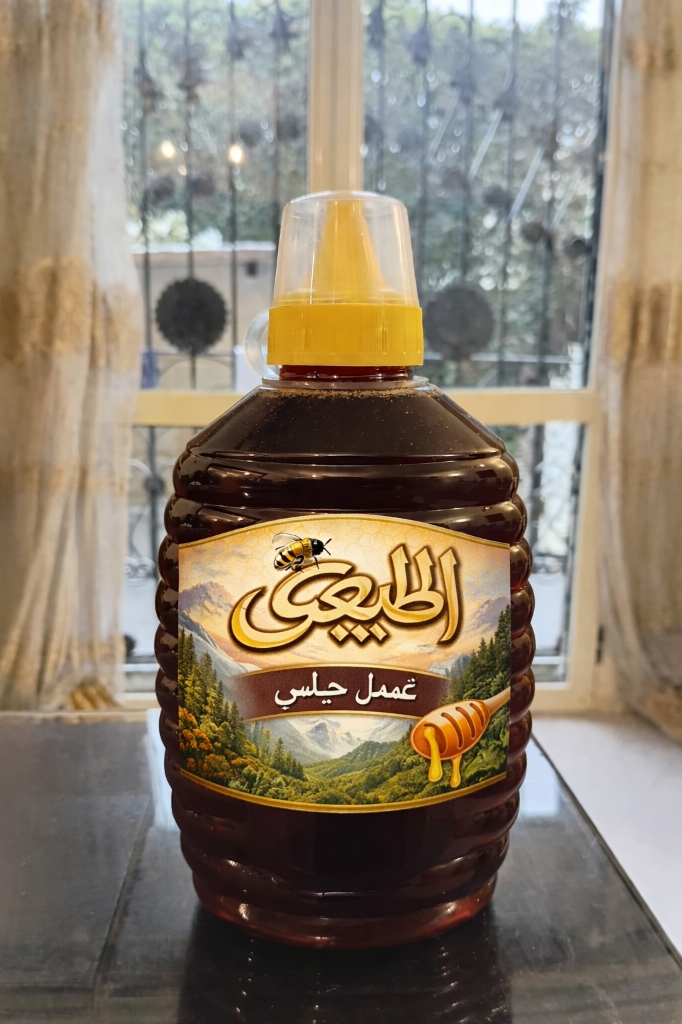
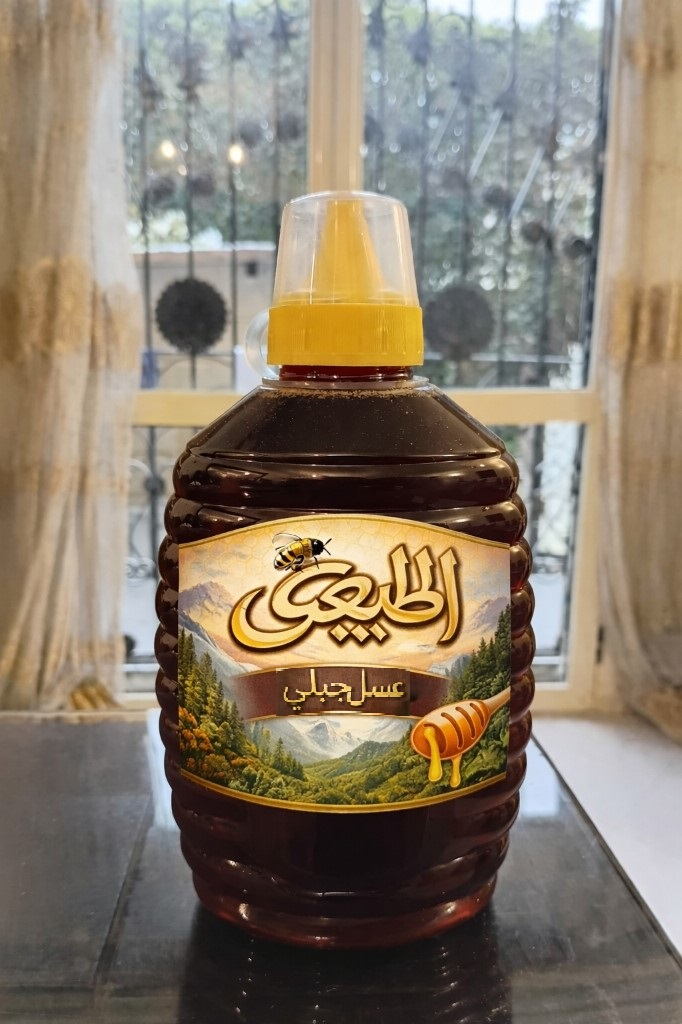
edit styles

Changed region(s): [[0.4003, 0.625, 0.6158, 0.7188]]

diff --git a/index.html b/index.html
@@ -1,27 +1,32 @@
 <!DOCTYPE html>
 <html lang="ar" dir="rtl">
+
 <head>
     <meta charset="UTF-8">
     <meta name="viewport" content="width=device-width, initial-scale=1.0">
     <title>الطبيعي | عسل نقي 100%</title>
-    <meta name="description" content="عسل الطبيعي، عسل نقي 100% مستخرج من مصادر طبيعية. تسوق الآن أفضل أنواع العسل الطبيعي في مصر.">
-    
+    <meta name="description"
+        content="عسل الطبيعي، عسل نقي 100% مستخرج من مصادر طبيعية. تسوق الآن أفضل أنواع العسل الطبيعي في مصر.">
+
     <!-- English Meta (JS will switch to these if needed, but for SEO we default to AR) -->
     <meta property="og:title" content="الطبيعي | Altabeai Honey">
     <meta property="og:description" content="100% Pure Natural Honey. Fresh from nature to your table.">
-    <meta property="og:image" content="assets/product-clover.jpg">
-    
+    <meta property="og:image" content="assets/Main-Photo.jpg">
+
     <!-- Fonts -->
     <link rel="preconnect" href="https://fonts.googleapis.com">
     <link rel="preconnect" href="https://fonts.gstatic.com" crossorigin>
-    <link href="https://fonts.googleapis.com/css2?family=Cairo:wght@400;600;700;800&family=Poppins:wght@400;600;700&display=swap" rel="stylesheet">
-    
+    <link
+        href="https://fonts.googleapis.com/css2?family=Cairo:wght@400;600;700;800&family=Poppins:wght@400;600;700&display=swap"
+        rel="stylesheet">
+
     <!-- Styles -->
     <link rel="stylesheet" href="css/style.css">
-    
+
     <!-- Favicon -->
     <link rel="icon" type="image/png" href="assets/logo-icon.png">
 </head>
+
 <body>
 
     <!-- Header -->
@@ -32,7 +37,7 @@
                 <span class="lang-ar">الطبيعي</span>
                 <span class="lang-en hidden">Altabeai</span>
             </a>
-            
+
             <ul class="nav-links">
                 <li>
                     <a href="index.html" class="active">
@@ -85,8 +90,10 @@
                 <span class="lang-en hidden">Altabeai Honey<br>Nature's Purest Gift</span>
             </h1>
             <p>
-                <span class="lang-ar">عسل نقي 100% من مصادر طبيعية، خالي من أي إضافات. طعم الأصالة وفوائد الطبيعة في كل قطرة.</span>
-                <span class="lang-en hidden">100% Pure Natural Honey from natural sources. No additives. The taste of authenticity and nature's benefits in every drop.</span>
+                <span class="lang-ar">عسل نقي 100% من مصادر طبيعية، خالي من أي إضافات. طعم الأصالة وفوائد الطبيعة في كل
+                    قطرة.</span>
+                <span class="lang-en hidden">100% Pure Natural Honey from natural sources. No additives. The taste of
+                    authenticity and nature's benefits in every drop.</span>
             </p>
             <div class="hero-buttons">
                 <a href="products.html" class="btn btn-primary">
@@ -170,8 +177,10 @@
                         <span class="lang-en hidden">Clover Flower Honey</span>
                     </h3>
                     <p class="product-desc">
-                        <span class="lang-ar">عسل طبيعي خفيف الطعم، غني بالفيتامينات والمعادن. مثالي للأطفال والاستخدام اليومي.</span>
-                        <span class="lang-en hidden">light-tasting natural honey, rich in vitamins. Perfect for daily use.</span>
+                        <span class="lang-ar">عسل طبيعي خفيف الطعم، غني بالفيتامينات والمعادن. مثالي للأطفال والاستخدام
+                            اليومي.</span>
+                        <span class="lang-en hidden">light-tasting natural honey, rich in vitamins. Perfect for daily
+                            use.</span>
                     </p>
                     <div class="product-options">
                         <span class="weight-tag">250g</span>
@@ -196,8 +205,10 @@
                         <span class="lang-en hidden">Mountain Honey</span>
                     </h3>
                     <p class="product-desc">
-                        <span class="lang-ar">عسل جبلي فاخر، يتميز بطعم قوي وفوائد علاجية متعددة. للمناعة والطاقة.</span>
-                        <span class="lang-en hidden">Premium mountain honey, strong taste and therapeutic benefits. For immunity and energy.</span>
+                        <span class="lang-ar">عسل جبلي فاخر، يتميز بطعم قوي وفوائد علاجية متعددة. للمناعة
+                            والطاقة.</span>
+                        <span class="lang-en hidden">Premium mountain honey, strong taste and therapeutic benefits. For
+                            immunity and energy.</span>
                     </p>
                     <div class="product-options">
                         <span class="weight-tag">250g</span>
@@ -230,7 +241,8 @@
                 </div>
                 <p>
                     <span class="lang-ar">نقدم لكم أنقى أنواع العسل الطبيعي، مباشرة من المناحل إليكم.</span>
-                    <span class="lang-en hidden">Providing specific natural honey types, directly from hives to you.</span>
+                    <span class="lang-en hidden">Providing specific natural honey types, directly from hives to
+                        you.</span>
                 </p>
             </div>
             <div class="footer-col">
@@ -239,10 +251,14 @@
                     <span class="lang-en hidden">Quick Links</span>
                 </h4>
                 <ul class="footer-links">
-                    <li><a href="index.html"><span class="lang-ar">الرئيسية</span><span class="lang-en hidden">Home</span></a></li>
-                    <li><a href="products.html"><span class="lang-ar">المنتجات</span><span class="lang-en hidden">Products</span></a></li>
-                    <li><a href="about.html"><span class="lang-ar">من نحن</span><span class="lang-en hidden">About</span></a></li>
-                    <li><a href="contact.html"><span class="lang-ar">تواصل معنا</span><span class="lang-en hidden">Contact</span></a></li>
+                    <li><a href="index.html"><span class="lang-ar">الرئيسية</span><span
+                                class="lang-en hidden">Home</span></a></li>
+                    <li><a href="products.html"><span class="lang-ar">المنتجات</span><span
+                                class="lang-en hidden">Products</span></a></li>
+                    <li><a href="about.html"><span class="lang-ar">من نحن</span><span
+                                class="lang-en hidden">About</span></a></li>
+                    <li><a href="contact.html"><span class="lang-ar">تواصل معنا</span><span
+                                class="lang-en hidden">Contact</span></a></li>
                 </ul>
             </div>
             <div class="footer-col">
@@ -255,10 +271,12 @@
             </div>
         </div>
         <div class="copyright">
-            <p>&copy; <span id="year"></span> <span class="lang-ar">الطبيعي. جميع الحقوق محفوظة.</span><span class="lang-en hidden">Altabeai Honey. All reserved.</span></p>
+            <p>&copy; <span id="year"></span> <span class="lang-ar">الطبيعي. جميع الحقوق محفوظة.</span><span
+                    class="lang-en hidden">Altabeai Honey. All reserved.</span></p>
         </div>
     </footer>
 
     <script src="js/main.js"></script>
 </body>
+
 </html>
